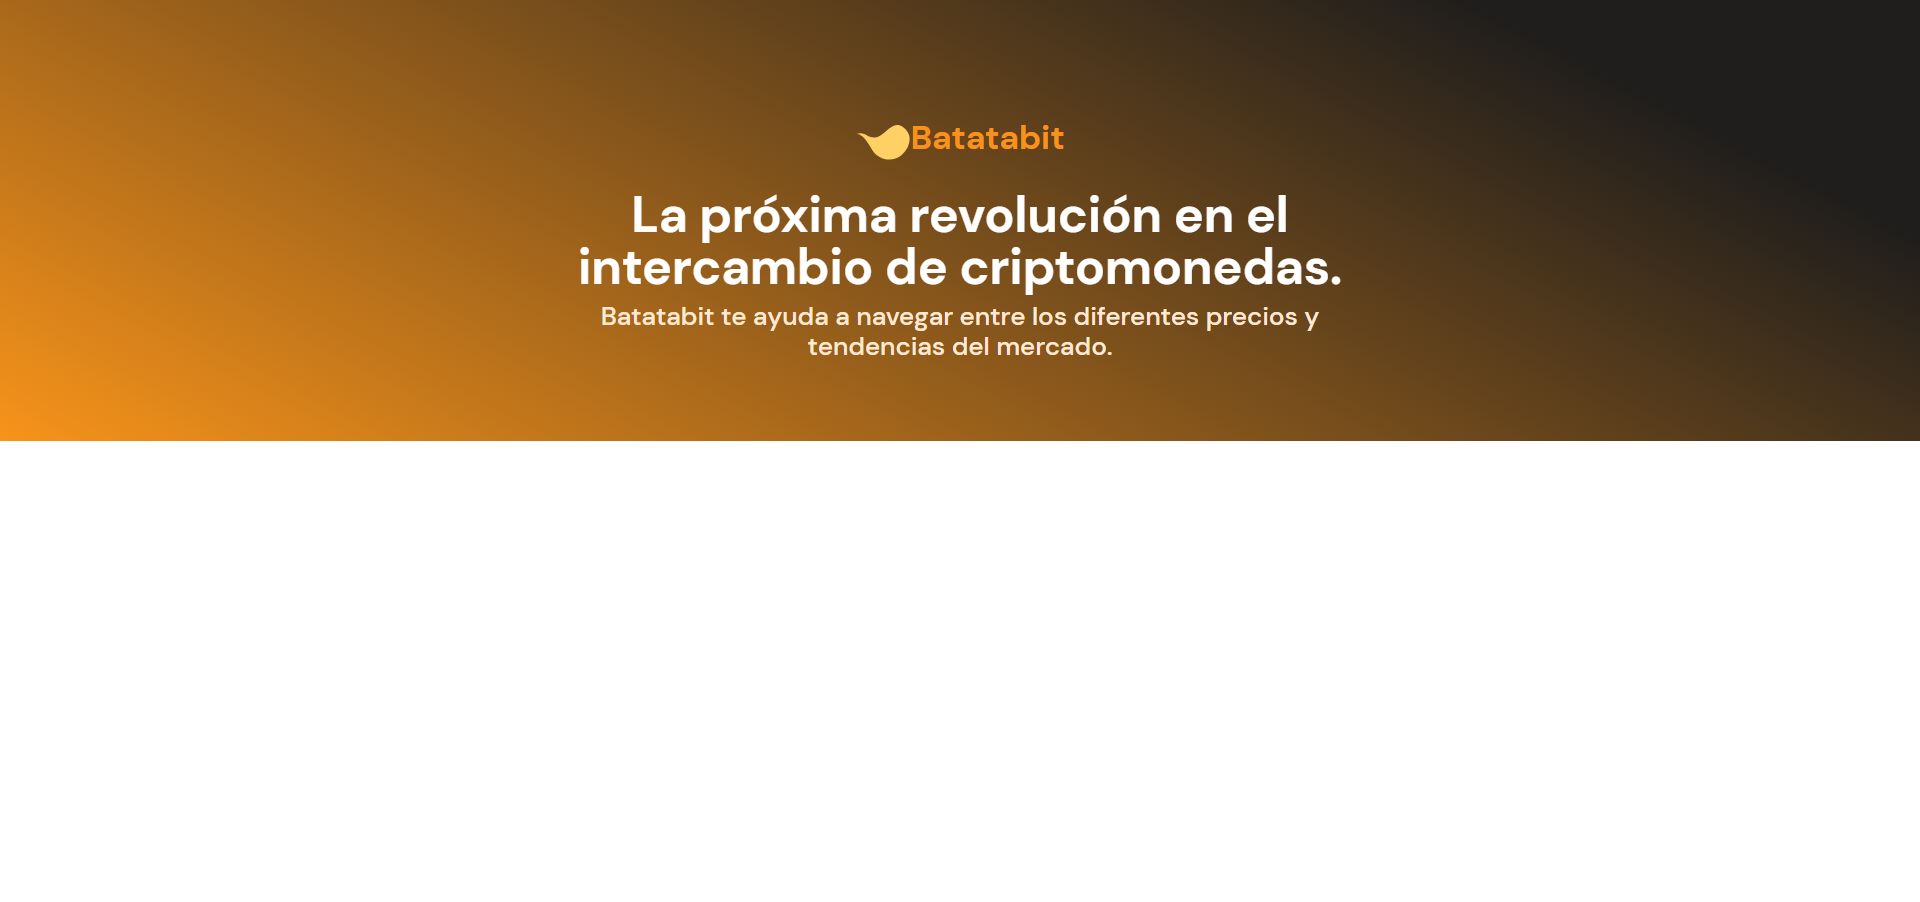
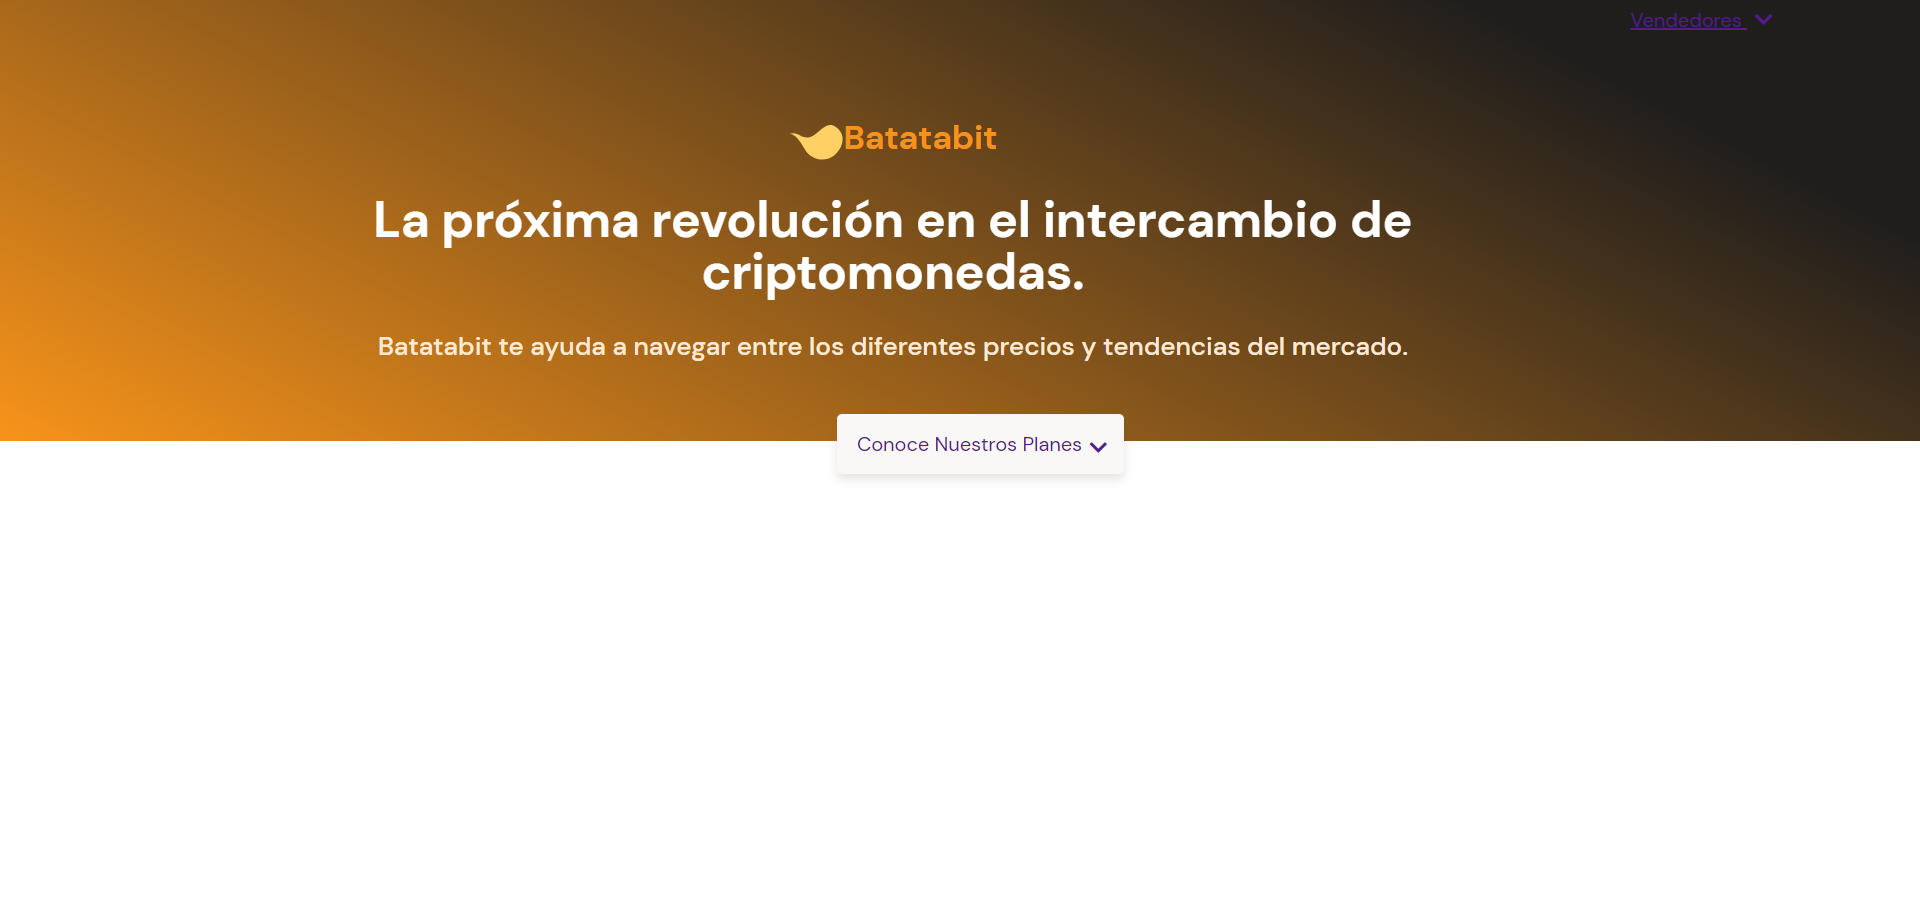
Se agrego el botón.

diff --git a/index.html b/index.html
@@ -7,6 +7,7 @@
     <meta name="viewport" content="width=device-width, initial-scale=1.0">
     <link rel="stylesheet" href="css/Normalize.css">
     <link rel="stylesheet" href="css/style.css">
+    <script src="https://kit.fontawesome.com/9a99de06cc.js" crossorigin="anonymous"></script>
     <meta content="Desarrollador Front-End | HTML, Css y Flex-Box " name="descripción" />
     <meta content="Las mentes del olimpo" name="Autor" />
     <!-- App favicon -->
@@ -27,6 +28,8 @@
                 <p>Batatabit te ayuda a navegar entre los diferentes precios y tendencias del mercado.</p>
             </div>
         </section>
+        <a href="#" class="hero_button">Conoce Nuestros Planes <span><i class="fas fa-chevron-down"></i></span></a>
+        <a href="#" class="desktop-item">Vendedores <span><i class="fas fa-chevron-down"></i></span></a>
     </header>
     <main></main>
     <footer></footer>

diff --git a/css/style.css b/css/style.css
@@ -49,6 +49,7 @@ body {
     margin: var(--marginElementos);
     align-items: space-between;
     flex-wrap: nowrap;
+    position: relative;
 }
 
 .hero__img {
@@ -76,6 +77,33 @@ body {
     font-size: 1.3rem;
     line-height: 1.5rem;
     color: var(--Soft_orange);
+}
+
+.hero_button {
+    display: flex;
+    flex-direction: row;
+    align-items: center;
+    padding: 12px 16px;
+    position: absolute;
+    width: 230px;
+    height: 48px;
+    left: calc(50% - 165px/2 - 16px);
+    top: calc(50% - 60px/2);
+    background: var(--off_white);
+    box-shadow: 0px 4px 8px rgba(89, 73, 30, 0.16);
+    border-radius: 4px;
+    text-decoration: none;
+}
+
+.hero_button:hover {
+    background: var(--just_white);
+}
+
+span i.fas {
+    display: inline-block;
+    margin: 0.5rem 0 0 0;
+    position: relative;
+    left: 6px;
 }
 
 @media screen and (max-width: 800px) {
